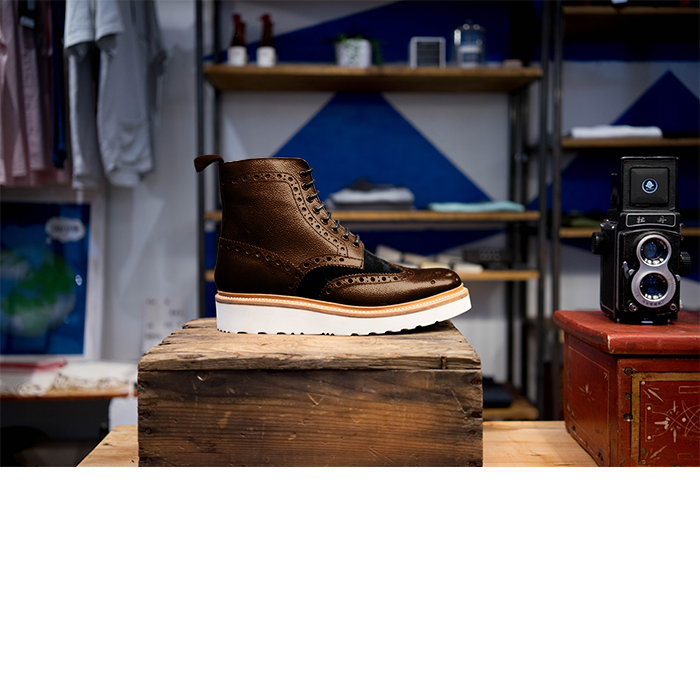
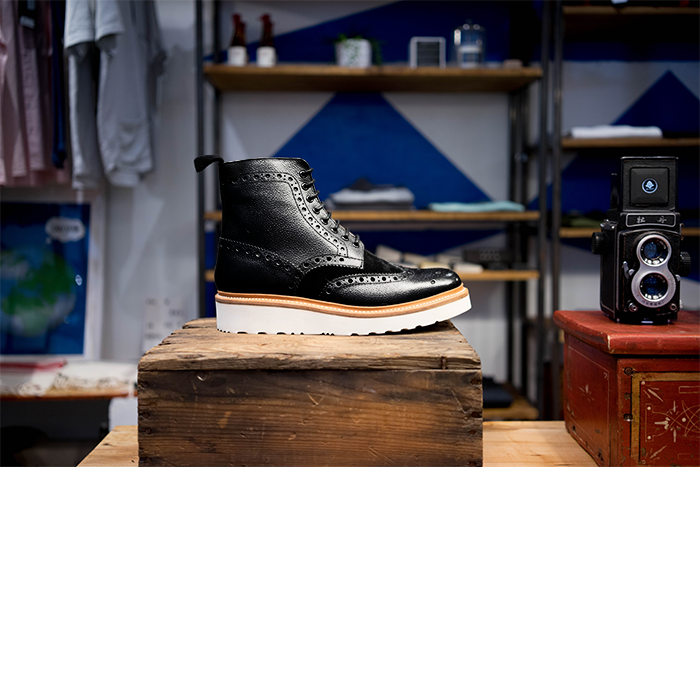
updated default leather color  to black

Changed region(s): [[0.33, 0.21, 0.66, 0.45]]

diff --git a/index.html b/index.html
@@ -80,11 +80,11 @@
                             <div id="leather" class="tab-pane fade in active">
                                 <br>
                                 <div class="options-container">
-                                    <div data-target="o1" data-color="1" class="item-color-option">
+                                    <div data-target="o1" data-color="1" class="item-color-option active">
                                         <img src="public/images/fabric/leather/Black.png">
                                     </div>
                                     
-                                    <div data-target="o1" data-color="2" class="item-color-option active">
+                                    <div data-target="o1" data-color="2" class="item-color-option">
                                         <img src="public/images/fabric/leather/Dark-Brown.png">
                                     </div>
                                     
@@ -98,15 +98,15 @@
                             <div id="suede" class="tab-pane fade">
                                 <br>
                                 <div class="options-container">
-                                    <div data-target="o2" data-color="1" class="item-color-option option-black active">
+                                    <div data-target="o2" data-color="1" class="item-color-option active">
                                         <img src="public/images/fabric/suede/Black.png">
                                     </div>
 
-                                    <div data-target="o2" data-color="2" class="item-color-option option-dark-brown">
+                                    <div data-target="o2" data-color="2" class="item-color-option">
                                         <img src="public/images/fabric/suede/Dark-Brown.png">
                                     </div>
 
-                                    <div data-target="o2" data-color="3" class="item-color-option option-light-brown">
+                                    <div data-target="o2" data-color="3" class="item-color-option">
                                         <img src="public/images/fabric/suede/Light-Brown.png">
                                     </div>
                                 </div>
@@ -116,11 +116,11 @@
                             <div id="shoelace" class="tab-pane fade">
                                 <br>
                                 <div class="options-container">
-                                    <div data-target="o4" data-color="1" class="item-color-option option-black flat-color active"></div>
+                                    <div data-target="o4" data-color="1" class="item-color-option option-black active"></div>
 
-                                    <div data-target="o4" data-color="2" class="item-color-option flat-color option-dark-brown"></div>
+                                    <div data-target="o4" data-color="2" class="item-color-option option-dark-brown"></div>
 
-                                    <div data-target="o4" data-color="3" class="item-color-option flat-color option-light-brown"></div>
+                                    <div data-target="o4" data-color="3" class="item-color-option option-light-brown"></div>
                                 </div>
                             </div>
 
